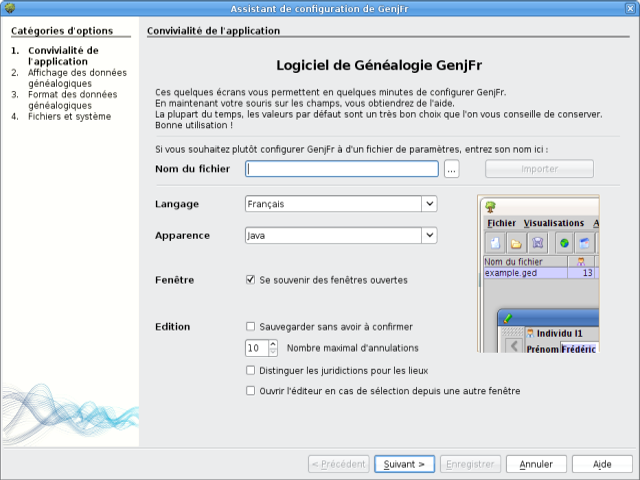
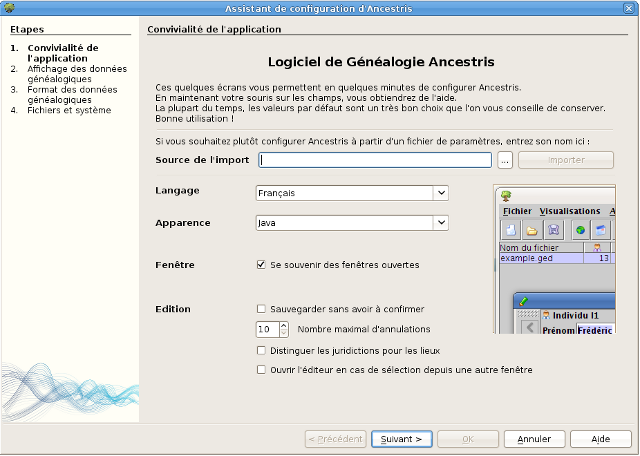
Mise à jour de l'aide. L'écran 3 est complet maintenant, et les captures d'écran correspondent à Ancestris 0.5

diff --git a/branches/dan-dev-0.5/GenjFrCore/theApp/javahelp/genjfr/app/docs/first_steps/wizard_ancestris.html b/branches/dan-dev-0.5/GenjFrCore/theApp/javahelp/genjfr/app/docs/first_steps/wizard_ancestris.html
@@ -98,21 +98,26 @@ Cliquez sur &laquo;Suivant&raquo;.<br>
     <li><u>Fournisseur</u>: Le fournisseur est la personne qui va faire la généalogie. 
         Donc à priori, il s'agit de vous. Voilà un exemple de la manière
         dont il faut mettre les choses.<br>
-        <ul>- Dans <u>nom</u>, vous mettez votre nom, genre "Francis DUPONT".</ul>
-        <ul>- <u>Commune</u>, "Noirmoutier-en-l'Ile".</ul>
-        <ul>- <u>Téléphone</u>, "+33 256 368 123" (vous voyez qu'on le met sous forme
-    internationale, donc avec +33 et pas le premier 0.</ul>
-        <ul>- <u>Code postal</u>, "12360" par exemple,</ul>
-        <ul>- <u>Email</u>, "francis.dupont@wanadoo.fr",</ul>
+        <ul>- Dans <u>nom</u>, vous mettez vos prénom et nom, genre "Francis DUPONT".</ul>
+        <ul>- <u>Commune</u>, votre commune, donc "Noirmoutier-en-l'Ile".</ul>
+        <ul>- <u>Téléphone</u>, votre numéro de téléphone, mais sous forme internationale 
+            donc avec +33 et pas le premier 0, ex: "+33 256 368 123" si votre
+            numéro est le 02 56 36 81 23.</ul>
+        <ul>- <u>Code postal</u>. C'est celui de votre commune, donc "85330" par
+            exemple,</ul>
+        <ul>- <u>Email</u>, votre adresse électronique, "francis.dupont@wanadoo.fr",</ul>
         <ul>- <u>Pays</u>, "France",</ul>
-        <ul>- <u>Web</u>, "http://lejolisitedefrancisdupont.wanadoo.fr"</ul></li>
-    <li><u>Nom des individus</u>: Vous laissez coché l'option "Mettre les 
+        <ul>- <u>Web</u>, votre site web si vous en avez un, sinon, vous ne
+            mettez rien. Ici par exemple, je vais mettre mon site
+            "http://lejolisitedefrancisdupont.wanadoo.fr"</ul></li>
+    <li><u>Patronymes</u>: Vous laissez coché l'option "Mettre les
     patronymes en majuscule", et vous laissez décoché l'option "Attribuer 
     par défaut le même patronyme à l'épouse".</li>
     <li><u>Adresses</u>: Là c'est <b>le point le plus important de cet 
     écran</b>.<br>
-    Il faut comprendre qu'ici vous allez afficher l'ordre de vos juridictions. Il
-    faut donc choisir celle(s) que l'on veut et l'ordre dans lequel on les veut.<br>
+    Il faut comprendre qu'ici vous allez afficher l'ordre de vos juridictions 
+    dans la ligne "<i>Rang</i>". Il faut donc choisir celles (les
+    juridictions) que l'on veut et l'ordre dans lequel on les veut.<br>
     Si dans votre généalogie vous n'avez que les lieudits, les communes, et le
     pays pour définir un endroit, vous allez devoir mettre pour "Lieudit",
     le numéro "1". Pour "Commune", vous
@@ -121,17 +126,29 @@ Cliquez sur &laquo;Suivant&raquo;.<br>
     pour "Département", on met aussi "0", pour "Région", on met "0" et pour "Pays" on met
     "3". Le lieudit sera la première juridiction affichée, ensuite la deuxième sera
     la commune et le pays sera la troisième.<br>
+    Si vos juridictions sont libellées de la manière suivante :<br>
+    La Bardonnière, Challans, 85047, Vendée, Pays-de-la-Loire, France<br>
+    Cela veut dire que vous devez avoir :<br>
+    Lieudit: 1; Commune: 2, Code INSEE: 3, Code Postal: 0; Département: 4, Région: 5;
+    Pays: 6<br>
     Si vous vous trompez dans cette partie de la configuration, vos adresses
     auront l'air d'être toute mélangées. Ne vous inquiétez pas, rien ne sera enregistré
     dans votre généalogie, donc vous pourrez toujours revenir sur cette partie
     de la configuration pour remettre les choses en ordre. Mais cet ordonnancement
     des juridictions est une source d'erreur commune.<br>
-    Ensuite pour la ligne juste en dessous libellé "Obligatoire", vous n'en cochez
-    aucun. C'est un conseil qu'il faut mieux suivre pour le moment.</li>
-    <li><u>Numéro ID</u>: Il faut mieux laisser coché "Mettre des espaces entre
-    les champs.</li>
-    <li><u>Encodage fichier</u>: Par défaut vous pouvez laisser "ANSEL", mais
-    on peut aussi vous conseiller de mettre "UTF-8".</li>
+    Ensuite pour la ligne juste en dessous libellé "<i>Obligatoire</i>", vous n'en cochez
+    aucun. C'est un conseil qu'il faut mieux suivre pour le moment.<br>
+    Pour la ligne "<i>Mettre des espaces entre les champs</i>" vous faites
+    comme vous voulez. Je préfère ne pas en mettre, mais c'est à vous de
+    voir. Si vous cochez cette option, vos libellés de localités, seront
+    de la manière suivante :<br>
+    &nbsp;La Bardonnière, Challans, 85047, Vendée, Pays-de-la-Loire, France<br>
+    Si vous décochez, vous aurez :<br>
+    &nbsp;La Bardonnière,Challans,85047,Vendée,Pays-de-la-Loire,France</li>
+    <li><u>Numéro ID</u>: Il faut mieux laisser coché "Remplir les
+        numéro disponibles d'abord".</li>
+    <li><u>Encodage</u>: Par défaut vous pouvez laisser "ANSEL", mais
+    on peut aussi vous conseiller de mettre plutôt "UTF-8".</li>
     <br>
 Cliquez ensuite sur &laquo;Suivant&raquo;.<br>
 </div>
@@ -146,12 +163,12 @@ Cliquez ensuite sur &laquo;Suivant&raquo;.<br>
 <br>
 <div class="section1">
     <li>Nous vous demandons &agrave; pr&eacute;sent dans la premi&egrave;re 
-        ligne <u>&laquo;fichier Gedcom &agrave; ouvrir&raquo;</u> d'indiquer
+        ligne &laquo;<u>fichier Gedcom &agrave; ouvrir</u>&raquo; d'indiquer
         &agrave; Ancestris le chemin de votre gedcom.<br>
         Cliquez sur les trois petits points en bout de ligne et rendez vous sur
         votre Gedcom (fichier *.ged).</li>
-    <li>Laissez par d&eacute;faut la ligne <u>&laquo;R&eacute;pertoire de sortie 
-        des rapports&raquo;</u> sauf si vous voulez que le r&eacute;sultat
+    <li>Laissez par d&eacute;faut la ligne &laquo;<u>R&eacute;pertoire de sortie
+        des rapports</u>&raquo; sauf si vous voulez que le r&eacute;sultat
         des rapports (les rapports sont des petits programmes
         qui peuvent vous donner des statistiques, des graphes,
         etc) soit mis dans un r&eacute;pertoire particulier de
